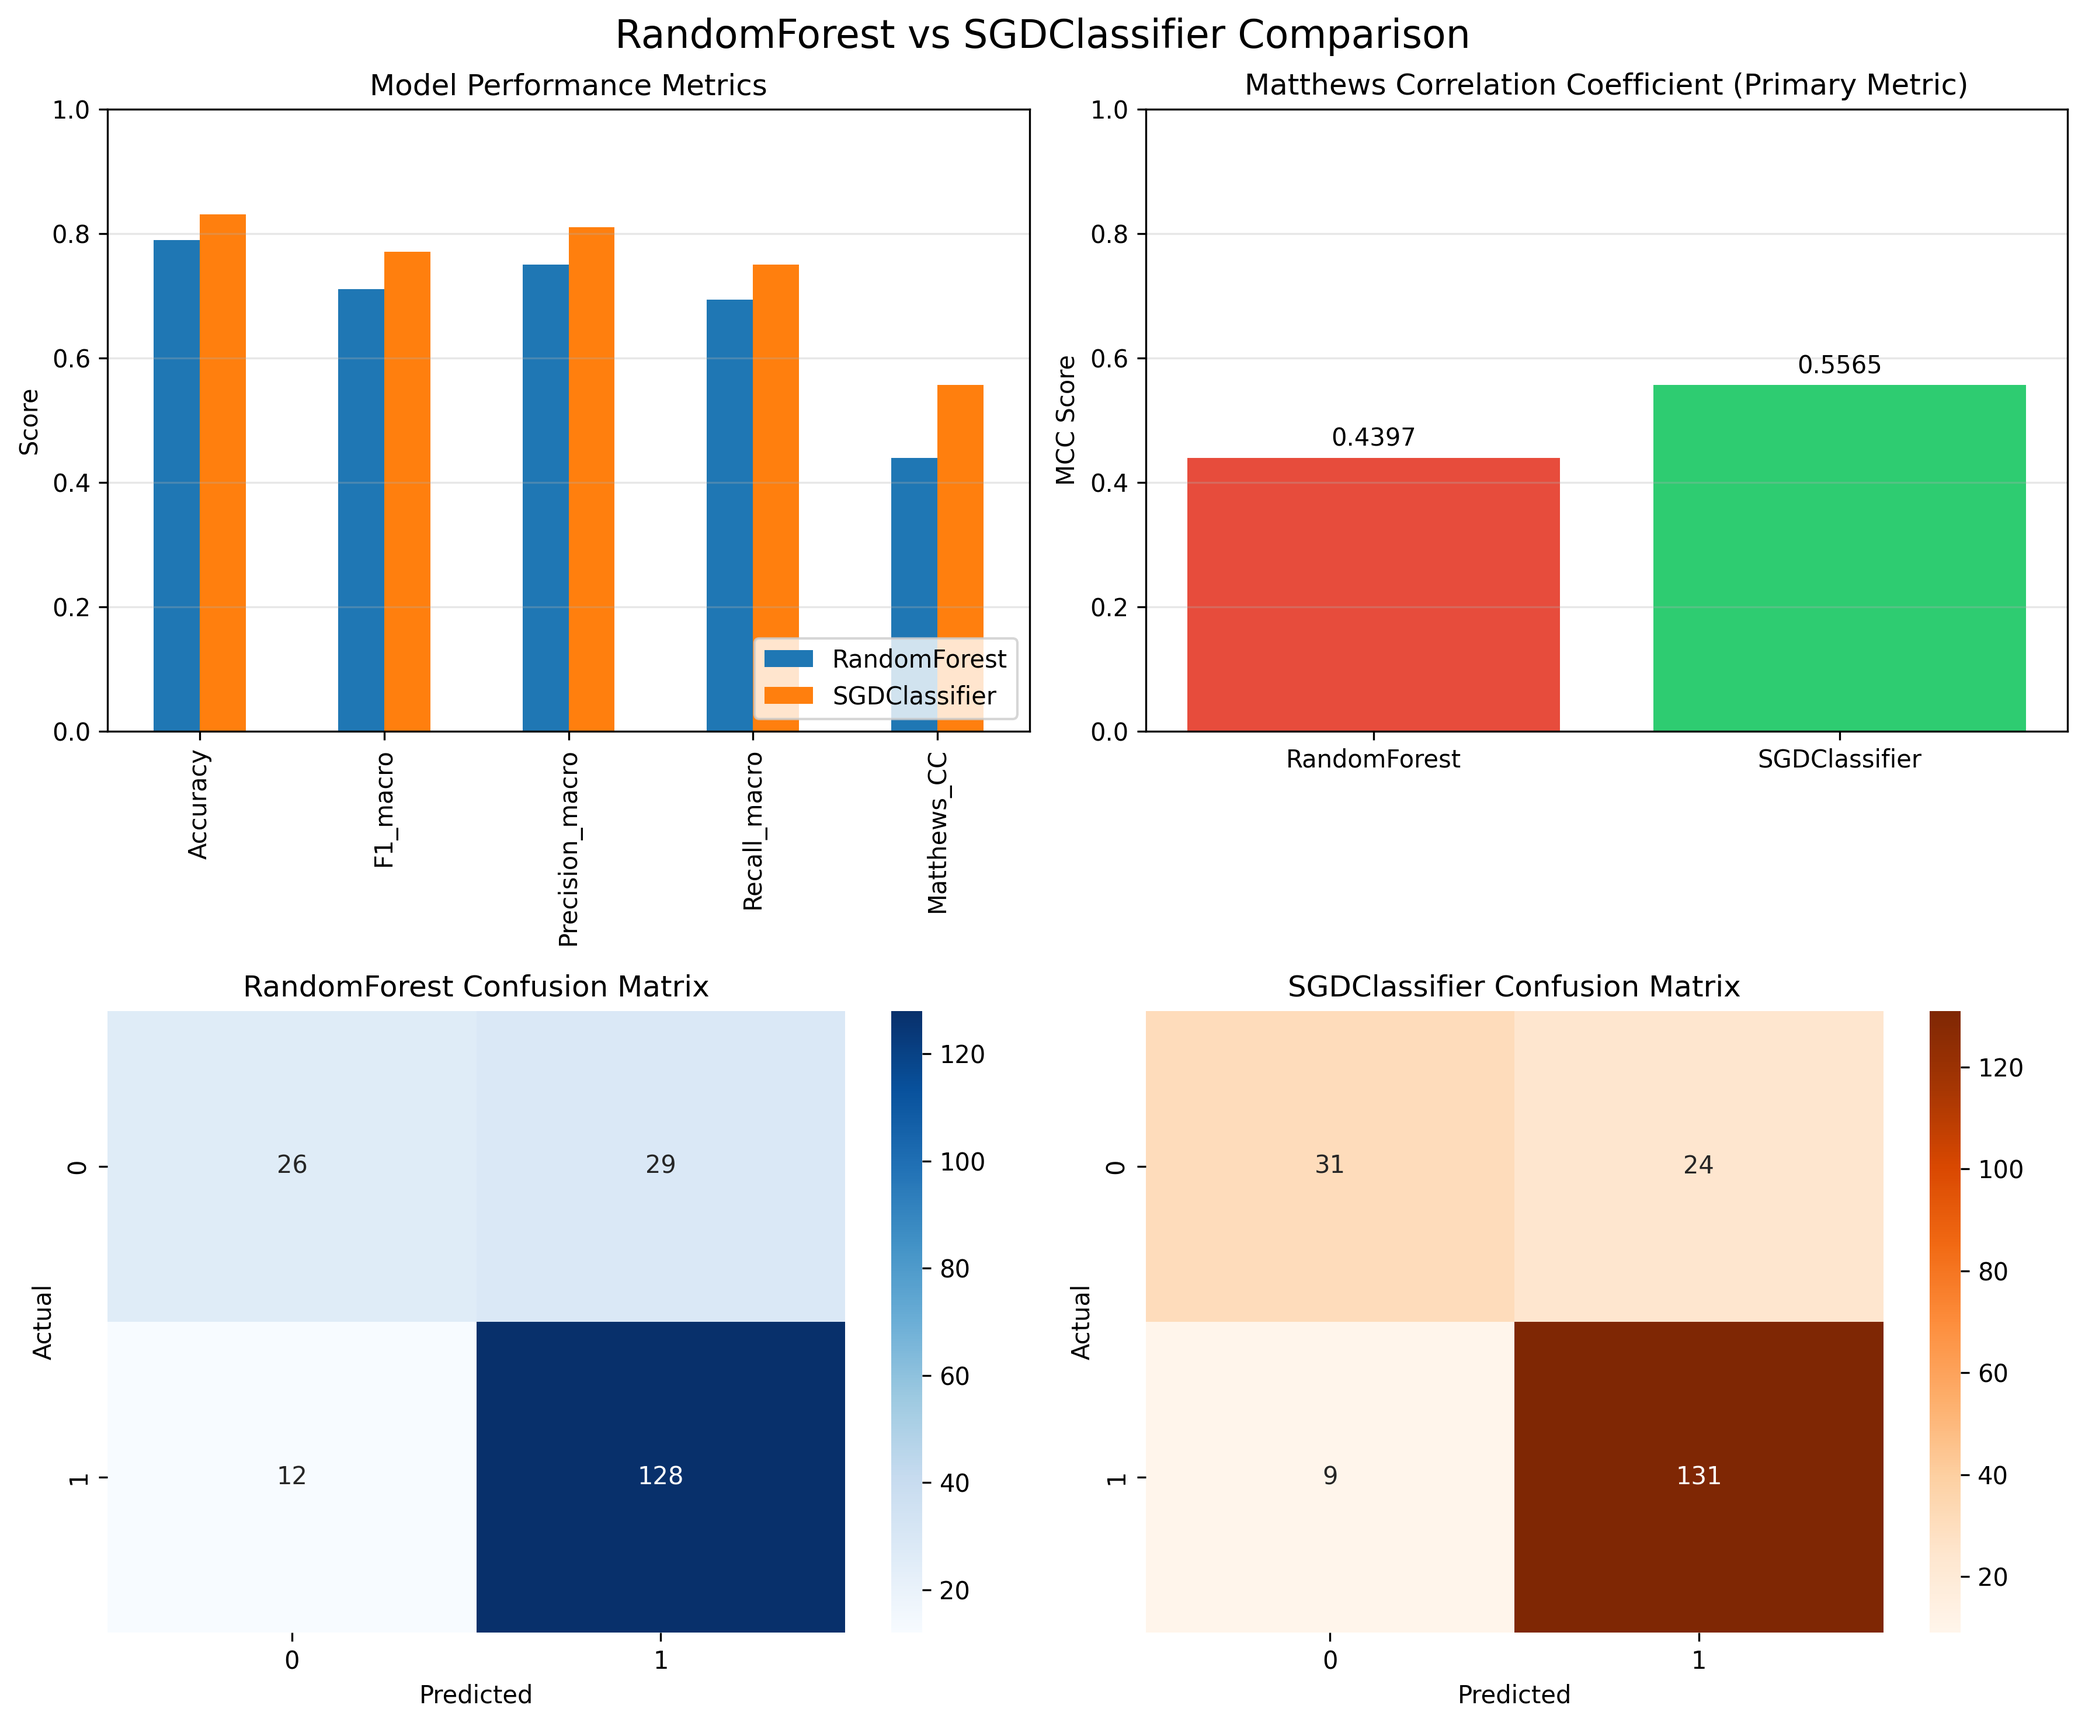
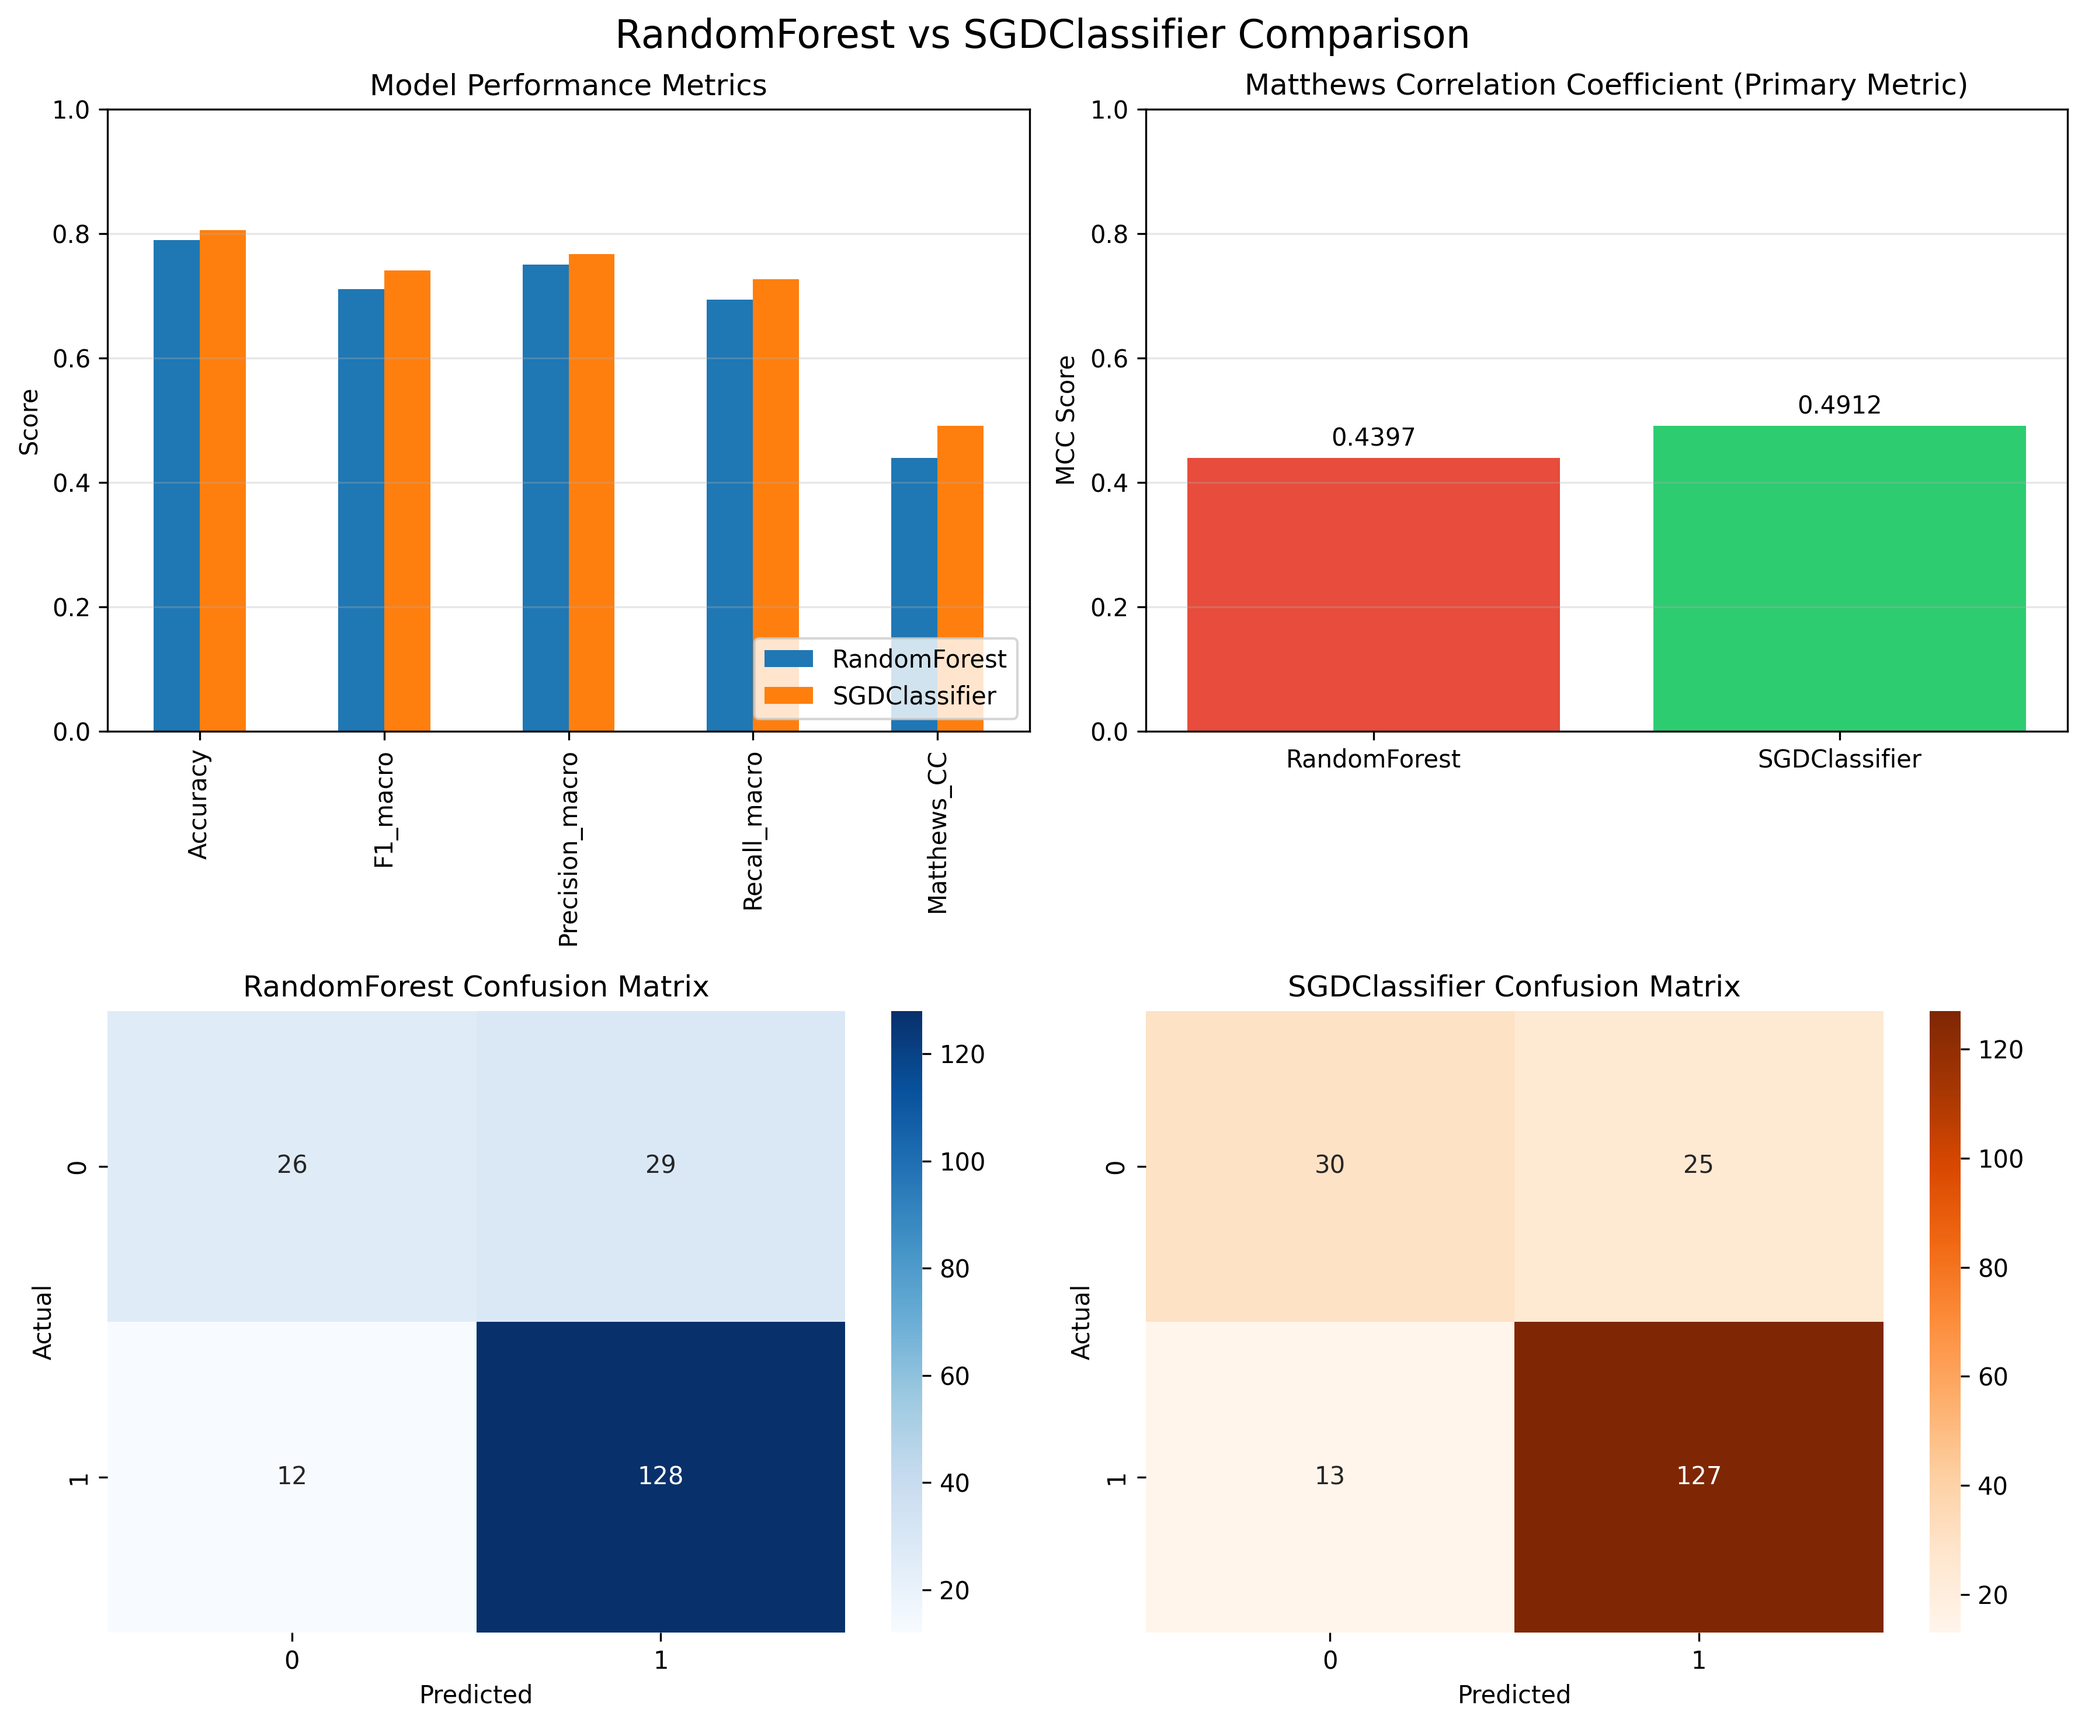
fixing some issues with the exercise 2

diff --git a/src/chapter3_ml_screening/ml_models.py b/src/chapter3_ml_screening/ml_models.py
@@ -62,8 +62,9 @@ class HERGClassifier:
         Returns:
             sklearn.linear_model.SGDClassifier: Trained classifier
         """
-        # Default parameters
+        # Default parameters - using log_loss to enable probability predictions
         params = {
+            'loss': 'log_loss',  # Changed from default 'hinge' to enable predict_proba
             'random_state': self.random_seed,
             'max_iter': 1000,
             'tol': 1e-3
@@ -187,7 +188,7 @@ class HERGClassifier:
         if models is None:
             # Default models to compare
             models = {
-                'SGDClassifier': SGDClassifier(random_state=self.random_seed),
+                'SGDClassifier': SGDClassifier(loss='log_loss', random_state=self.random_seed),
                 'RandomForest': RandomForestClassifier(random_state=self.random_seed, n_jobs=-1),
                 'Dummy': DummyClassifier(strategy='most_frequent', random_state=self.random_seed)
             }
@@ -235,6 +236,7 @@ class HERGClassifier:
         """
         if sgd_params is None:
             sgd_params = {
+                'loss': 'log_loss',  # Enable probability predictions
                 'random_state': self.random_seed,
                 'max_iter': 1000,
                 'tol': 1e-3
@@ -334,8 +336,9 @@ class HERGClassifier:
                 'penalty': ['l1', 'l2', 'elasticnet']
             }
         
-        # Create base classifier
+        # Create base classifier with log_loss for probability predictions
         sgd_clf = SGDClassifier(
+            loss='log_loss',
             random_state=self.random_seed,
             max_iter=1000,
             tol=1e-3
@@ -389,8 +392,9 @@ class HERGClassifier:
                 'penalty': ['l1', 'l2', 'elasticnet']
             }
         
-        # Create base classifier
+        # Create base classifier with log_loss for probability predictions
         sgd_clf = SGDClassifier(
+            loss='log_loss',
             random_state=self.random_seed,
             max_iter=1000,
             tol=1e-3
